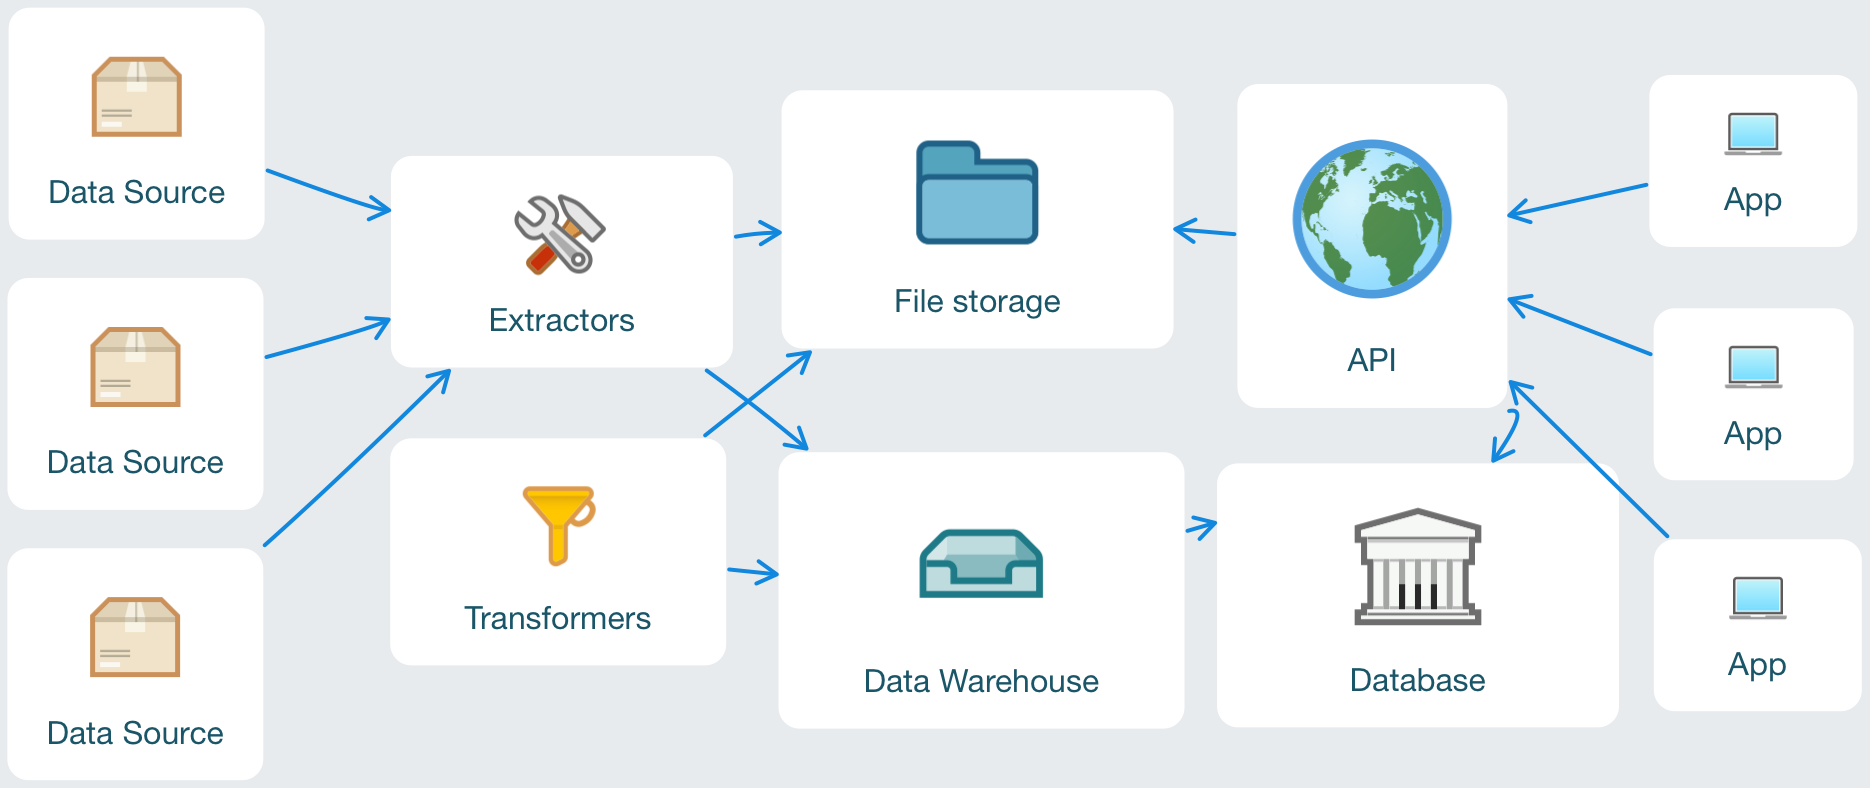
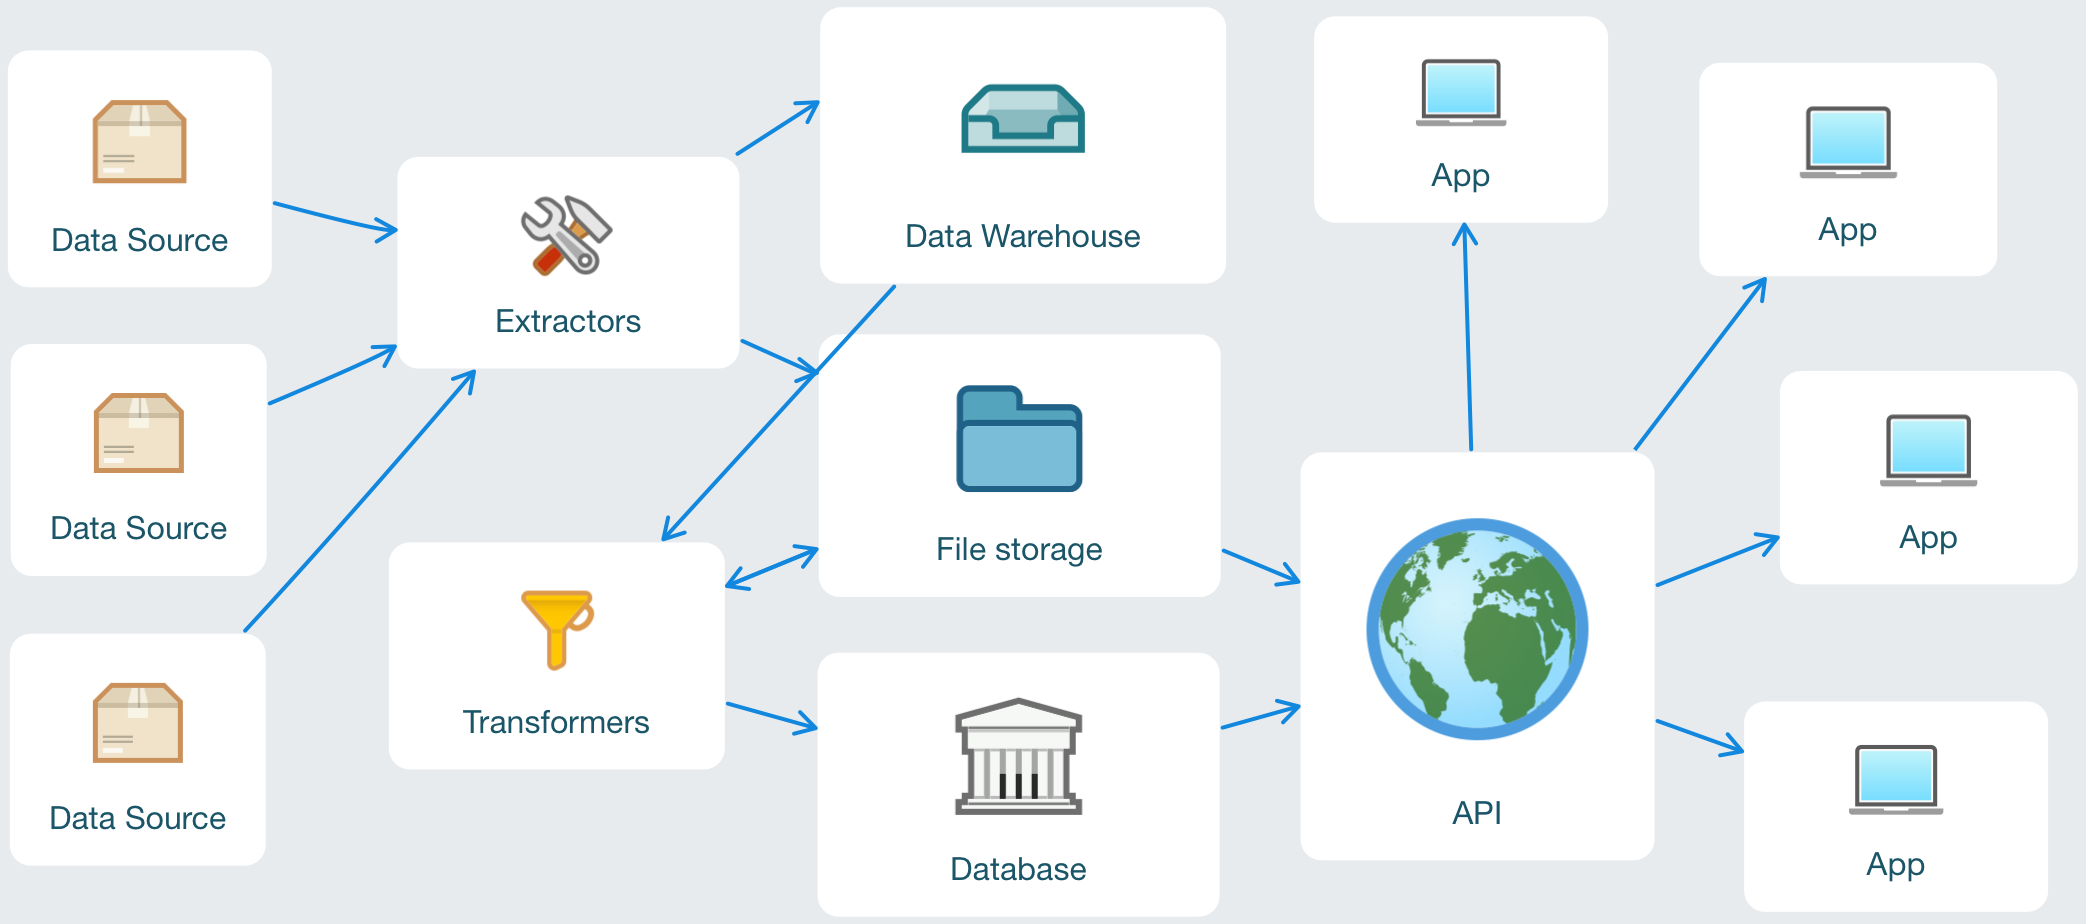
Changes based on feedback; Add more information; Update diagrams.

diff --git a/roadmap.md b/roadmap.md
@@ -6,44 +6,64 @@ Hello fans of evidence-based medicine and open data! We'd like to officially ann
 
 Technical work on OpenTrials is conducted by Open Knowledge International. While different people may come into the project at different times, the current technical team is:
 
--   Sam Smith ([@smth](http://github.com/smth)): User Experience and Design
--   Evgeny Karev ([@roll](http://github.com/roll)): Development
--   Vitor Baptista ([@vitorbaptista](http://github.com/vitorbaptista)): Development
+-   Sam Smith ([@smth](http://github.com/smth)): UI/X Designer
+-   Evgeny Karev ([@roll](http://github.com/roll)): Developer
+-   Vitor Baptista ([@vitorbaptista](http://github.com/vitorbaptista)): Developer
 -   Paul Walsh ([@pwalsh](http://github.com/pwalsh)): Technical Lead
 
-Feel free to reach out to any of us via the [OpenTrials organization on GitHub](https://github.com/opentrials).
+Feel free to reach out to any of us at [OpenTrials on GitHub](https://github.com/opentrials).
 
 ## Contributing
 
-As with all Open Knowledge International projects, we welcome and encourage contribution. For the technical work on OpenTrials, contributions can mean any or all of code, documentation, bug testing, etc. See our [organization](https://github.com/opentrials) on GitHub, and browse the [unified issue tracker](https://github.com/issues?utf8=✓&q=is%3Aopen+is%3Aissue+user%3Aopentrials+) for all the repositories for interesting tasks to take up.
+As with all Open Knowledge International projects, we welcome and encourage contribution. For the technical work on OpenTrials, contributions can mean any or all of code, documentation, testing, etc. See [OpenTrials on GitHub](https://github.com/opentrials), and browse the [unified issue tracker](https://github.com/issues?utf8=✓&q=is%3Aopen+is%3Aissue+user%3Aopentrials) for all the repositories for interesting tasks to take up.
 
 ## Overview
 
-OpenTrials will aggregate information from a wide variety of existing sources, and aims to provide a comprehensive picture of the data and documents on all trials conducted on medicines and other treatments around the world. See the [video](https://www.youtube.com/watch?v=ngVYptGuK0E) for greater context. Here, we are are focused on building the platform.
+OpenTrials aims to provide a comprehensive picture of the data and documents on all clinical trials conducted on medicines and other treatments. The platform will present data aggregated from a wide variety of existing sources, starting with clinical trial registers and moving on to academic journals, systematic reviews and other data sources. See Ben Goldacre's [video](https://www.youtube.com/watch?v=ngVYptGuK0E) for greater context. Here, we are are focused on the technical aspects of the OpenTrials platform.
 
 ### Architecture
 
-Let's start with a look at the general architecture of the OpenTrials platform.
+Let's start with a look at the general architecture of the OpenTrials platform. This is a high-level overview, describing the general data flow, and the relation between different components.
 
-<img src="images/architecture.png" width="600" title="OpenTrials Architecture Overview">
+<img src="images/architecture.png" width="600" style="text-align: center; display: block; margin: 0 auto;" title="OpenTrials Architecture Overview">
 
 OpenTrials will be implemented as a set of loosely coupled components, from data acquisition through to user-facing applications:
 
--   Extractors and transformers get data from 3rd party sources and process it in our data warehouse, performing tasks from general cleanup through to record matching.
--   Processed data is written to both a file system and a database. The file system hold documents associated with records in the database, as well as flat file representations of data for direct access. The database is normalized SQL representation of the data warehouse plus a search index, each powering an HTTP API.
--   A set of user-facing applications sit on top of the API to provide views on the data.
+- Extractors and transformers get data from 3rd party sources and process it in our data warehouse, performing tasks from general cleanup through to record matching.
+- Processed data is written to both a file system and a database. The file system hold documents associated with records in the database, as well as flat file representations of data for direct access. The database is a normalized SQL representation of the data warehouse, plus a search index, each powering an HTTP API.
+- A set of user-facing applications sit on top of the API to provide views on the data.
+
+Of course, there are many details inside each component as described in the above architecture diagram. We plan to blog regularly as we develop the platform, and give deeper insight into each component and our strategies.
 
 ### Data model
 
-It is important to note that we are not setting out to design a perfectly formed vocabulary around trial data. The data itself is messy, inconsistent, divergent and non-standard. However, we do strive to establish a workable understanding of relations between various entities around clinical trial data.
+It is important to note that we are not setting out to design a perfectly formed vocabulary around trial data. When we talk about linking trial data, we do not mean that source data will be required to conform to any pre-conceived notion of what that data *should* look like. Rather, we accept that the data itself is messy, inconsistent, divergent and non-standard, and we set out to increase the value of this data by *threading* it together based on a range of matching techniques, and by extracting a set of relations between various entities that are manifest in the data itself.
 
-<img src="images/model.png" width="600" title="OpenTrials Data Model Overview">
+<img src="images/model.png" width="600" style="text-align: center; display: block; margin: 0 auto;" title="OpenTrials Data Model Overview">
 
-The diagram centers around our "ideal" representation of a trial, which is derived from the trial records published on public and private registers.
+The above diagram centers around our "ideal" representation of a trial, which is derived from various sources of data on a trial, starting with the trial records published on clinical trial registers. This "ideal" representation has a minimal set of core, pre-defined fields based on the [WHO Data Set](http://www.who.int/ictrp/network/trds/en/), and a less structured set of associated data making up the graph of everything the OpenTrials platform knows on a given trial. 
 
--   The "ideal" representation of a trial will be based on the [WHO Data Set](http://www.who.int/ictrp/network/trds/en/) plus additional fields that cannot be mapped consistently or reliably from the set of trial records we collect.
--   The entities on the left represent the **dimensions** of the data, providing attributes on which to explore and slice the whole OpenTrials database.
--   The entities on the right represent the **facts** of the data, providing attributes that make up everything we know about clinical trials.
+- (left) A range of data sources with information about trials.
+- (middle) Our "ideal" representation of a trial, which is made from the core facts we can extract from the various data sources.
+- (right) Key information that will be extracted from trials and used for data exploration (Examples: Find all trials conducted in Location X; Filter trials by Organization Y).
+
+### Technology stack
+
+OpenTrials will be written in Javascript and Python, being the core languages used at Open Knowledge International, and the most common languages used in the open data sector. 
+
+The majority of web-facing code will be in Javascript, using Node.js for servers, and either React or Angular for clients. The OpenTrials API will be a Node.js server implementing an [OpenAPI-compatible](https://openapis.org/) HTTP API exposing data in JSON.
+
+Significant portions of the platform are not web facing, and are concerned with data acquisition and processing. The majority of this code will be in Python, leveraging the extensive ecosystem of data processing tooling it offers.
+
+For databases, OpenTrials will use [Elasticsearch](https://www.elastic.co/products/elasticsearch) and [PostgreSQL](http://www.postgresql.org). Both of these solutions have been chosen based on previous experience, and the flexibility that each offering brings to data storage (Elasticsearch is much more than "just" a search backend, and PostgreSQL is much more than "just" an SQL backend).
+
+### 3rd party integrations
+
+We are working towards a number of 3rd party integrations for OpenTrials, and we expect these type of integrations to increase over 2016. Some of the first integrations include:
+
+* **Document Cloud**: OCR and text editing for scanned documents already in OpenTrials
+* **ContentMine** ([link](http://contentmine.org/)): Matching academic journal publications to clinical trials
+* **Epistemonikos** ([link](http://www.epistemonikos.org)): Summaries and systematic reviews on clinical trials 
 
 ## Glossary
 
